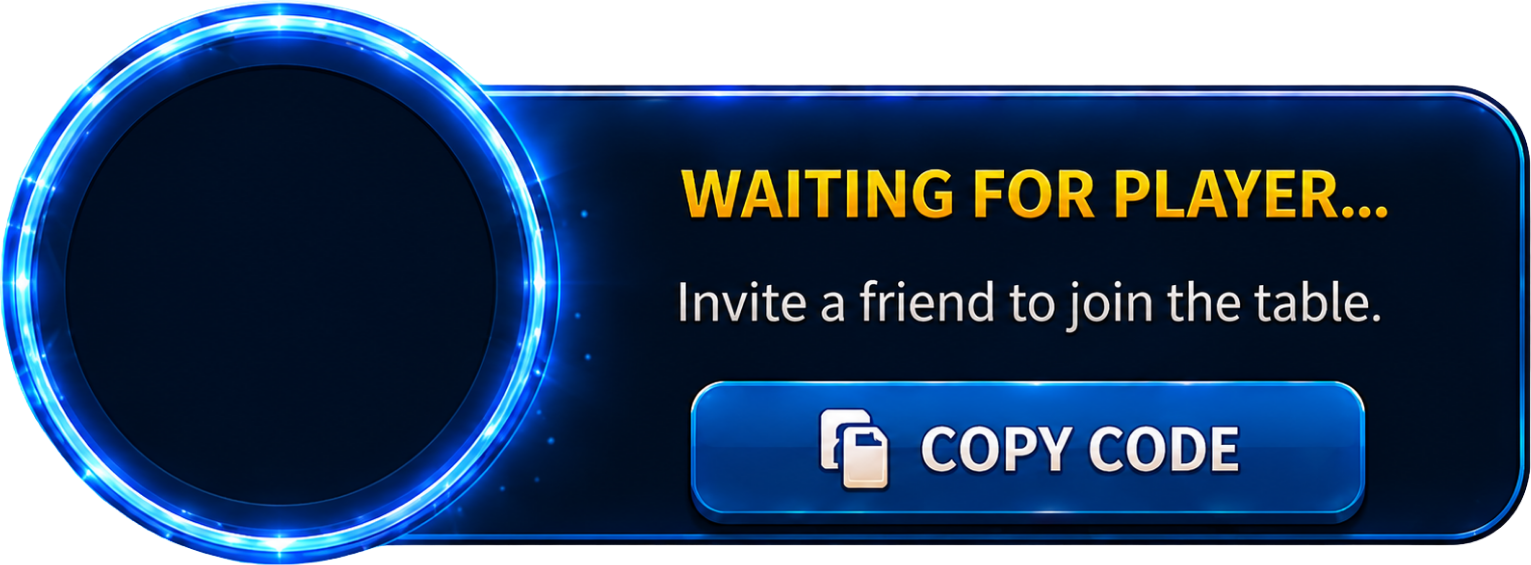
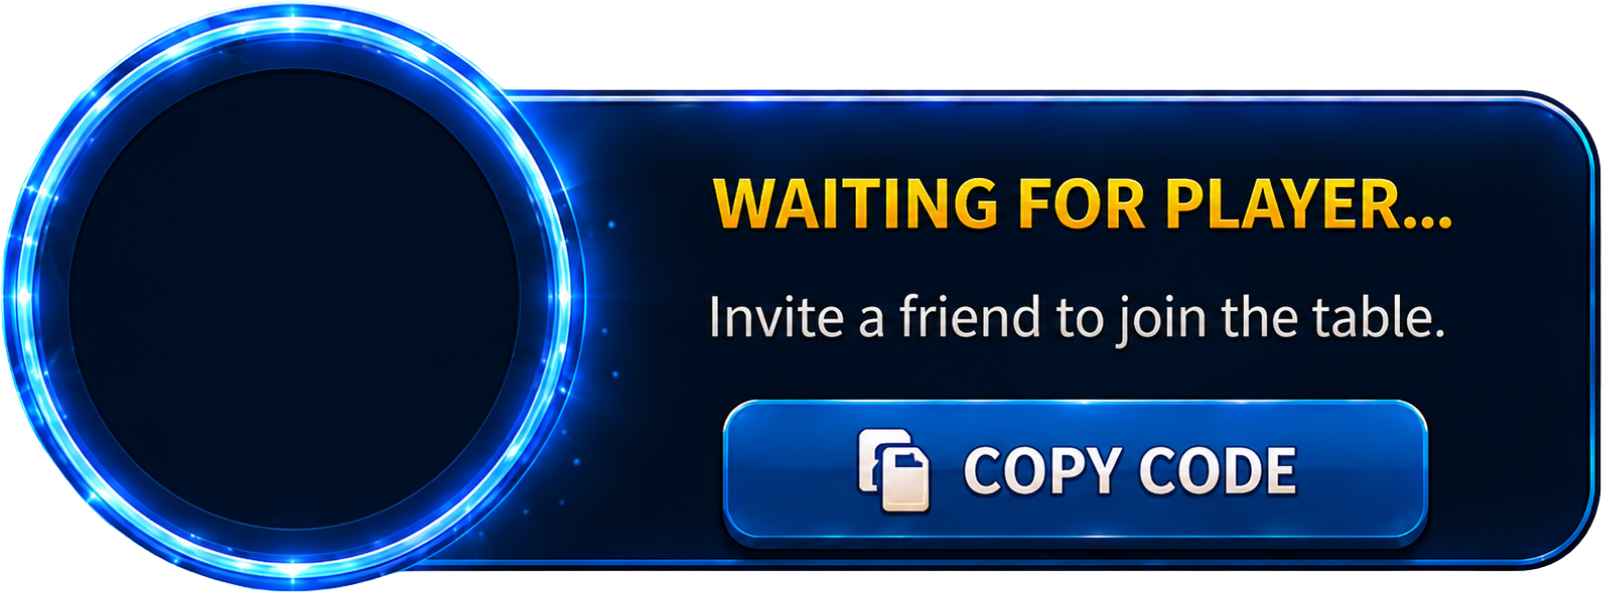
Tongits: fix seat overlay alignment with pixel-measured coordinates
ringcx 0.203→0.154, name/coin/ready/agreed repositioned to match
actual gold-ring and badge positions in the new transparent seat art.
Empty-seat ringcx 0.21→0.25.

diff --git a/src/components/TongitsWaitingRoomArt.tsx b/src/components/TongitsWaitingRoomArt.tsx
@@ -39,15 +39,14 @@ const C = {
 const OCC = {
   W: 23.6,
   H: 13.3,
-  ringcx: 0.203,
+  ringcx: 0.154,
   ringcy: 0.498,
-  // name field aligns with READY row; coin field aligns with AGREED row.
-  name: { l: 0.42, t: 0.19, w: 0.29, h: 0.30 },
-  coin: { l: 0.47, t: 0.59, w: 0.22, h: 0.27 },
-  ready: { l: 0.719, t: 0.191, w: 0.259, h: 0.301 },
-  agreed: { l: 0.719, t: 0.59, w: 0.259, h: 0.273 },
+  name: { l: 0.35, t: 0.19, w: 0.34, h: 0.30 },
+  coin: { l: 0.44, t: 0.59, w: 0.28, h: 0.27 },
+  ready: { l: 0.723, t: 0.191, w: 0.255, h: 0.301 },
+  agreed: { l: 0.723, t: 0.59, w: 0.255, h: 0.273 },
 };
-const EMP = { W: 22.5, H: 14.75, ringcx: 0.21, ringcy: 0.5, copy: { l: 0.47, t: 0.68, w: 0.43, h: 0.19 } };
+const EMP = { W: 22.5, H: 14.75, ringcx: 0.25, ringcy: 0.50, copy: { l: 0.47, t: 0.68, w: 0.43, h: 0.19 } };
 const ANCHORS = [
   { x: 11.5, y: 28 },
   { x: 50, y: 28 },